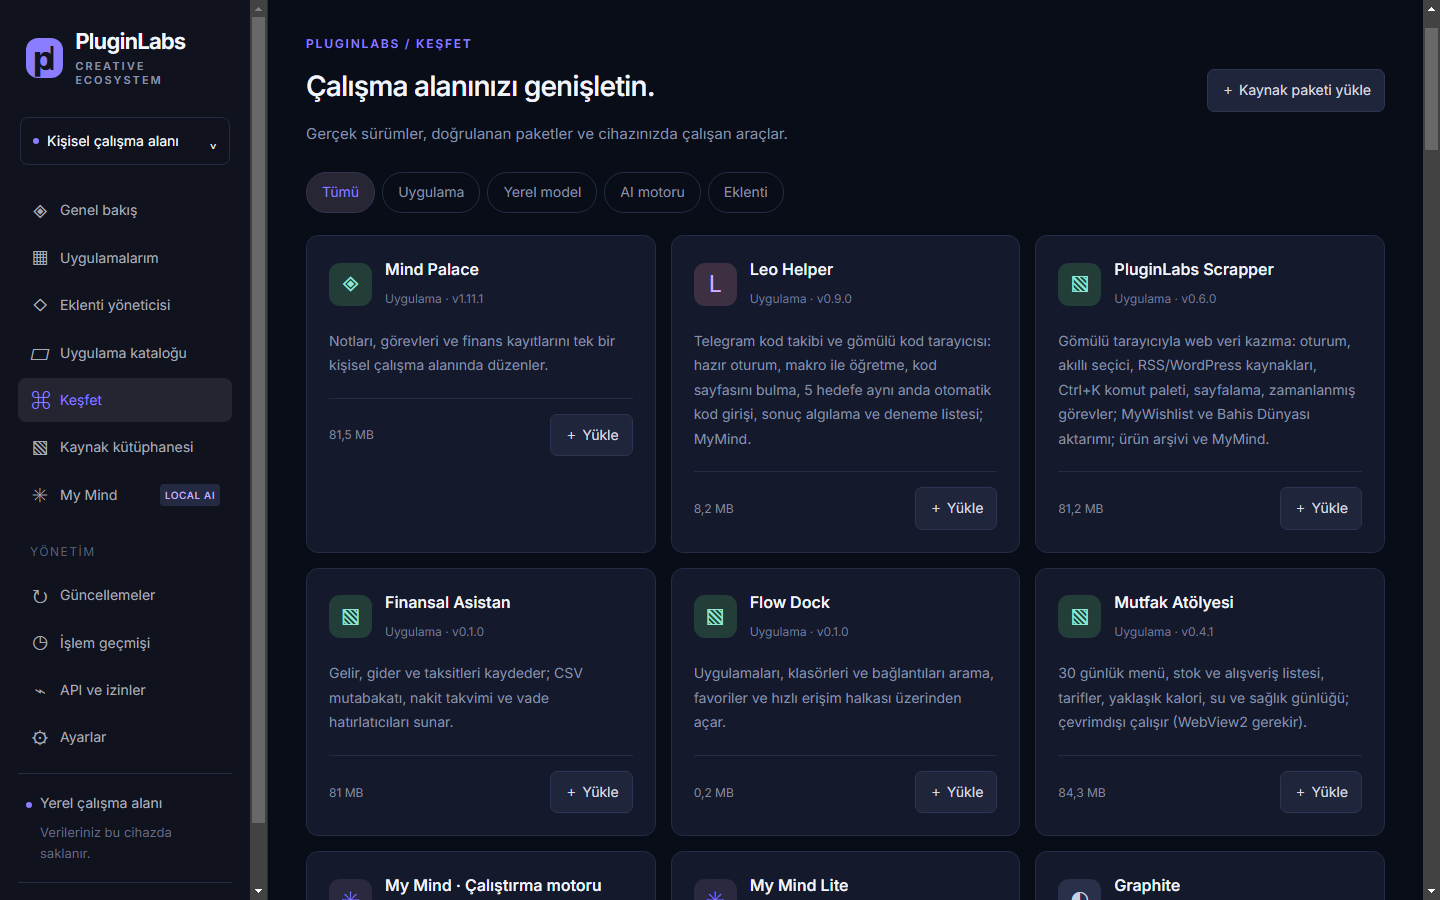
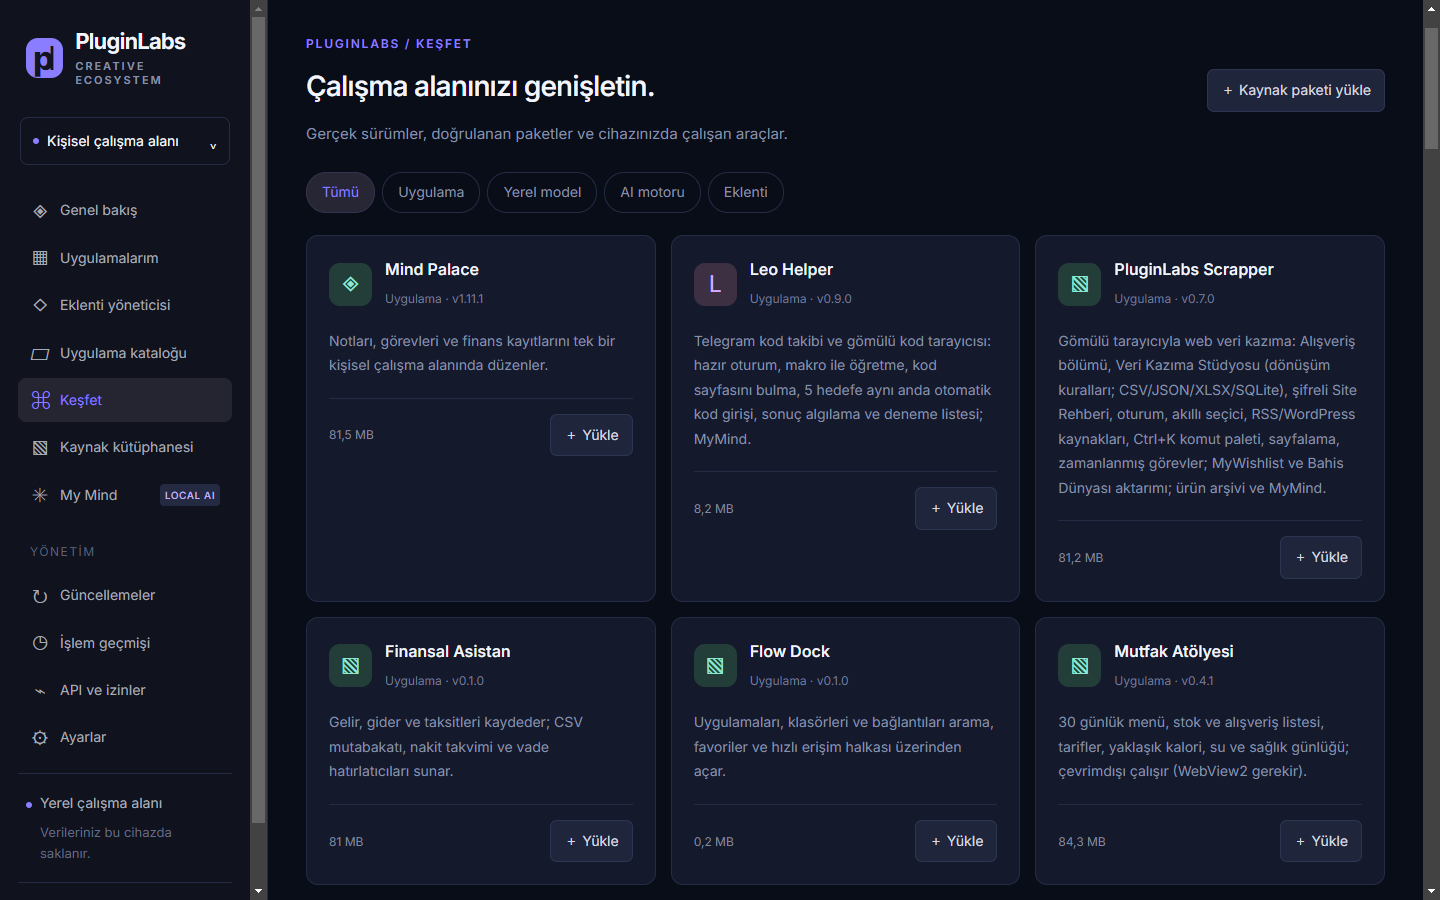
[hub] 0.4.7: PluginLabs Scrapper 0.7.0 kataloğa
- Katalog: Scrapper 0.7.0 (Alışveriş bölümü, Veri Kazıma Stüdyosu, Site Rehberi);
  pluginlabs-dagitim pluginlabs-scrapper-v0.7.0 yansısıyla SHA-256 + boyut doğrulandı.
- README Keşfet ekran görüntüsü 0.4.7 ile yenilendi (Windows 11, Electron).
- AKTIF-ISLER, UYGULAMALAR, RELEASE-NOTES güncellendi.

diff --git a/docs/UYGULAMALAR.md b/docs/UYGULAMALAR.md
@@ -11,7 +11,7 @@ Windows sürümü GitHub release olarak yayımlanmış uygulamalar (paketler imz
 | Flow Dock (PL-001) | v0.1.0 (tek exe) | https://github.com/timdesigners-pixel/flow-dock/releases/tag/v0.1.0 |
 | Leo Helper (PL-002) | v0.9.0 (Tauri; kurulum + taşınabilir exe) | https://github.com/timdesigners-pixel/leo-helper/releases/tag/v0.9.0 |
 | Mind Palace (PL-003) | **v1.11.0** (kurulum + taşınabilir .exe) | https://github.com/timdesigners-pixel/mind-palace/releases/tag/v1.11.0 |
-| The Ultimate Scrapper (PL-004) | v0.6.0 (PluginLabs Scrapper) | https://github.com/timdesigners-pixel/the-ultimate-scrapper/releases/tag/v0.6.0 |
+| The Ultimate Scrapper (PL-004) | v0.7.0 (PluginLabs Scrapper) | https://github.com/timdesigners-pixel/the-ultimate-scrapper/releases/tag/v0.7.0 |
 | Finansal Asistan (PL-005) | v0.1.0 (Windows, kapalı pilot) | https://github.com/timdesigners-pixel/finansal-asistan/releases/tag/v0.1.0 |
 | Note Master (PL-006) | v0.1.0 (Windows kurulum/taşınabilir + Chrome zip) | https://github.com/timdesigners-pixel/note-master/releases/tag/v0.1.0 |
 | Musebook (PL-007) | v0.1.0 (Windows kurulum/taşınabilir + Chrome zip) | https://github.com/timdesigners-pixel/musebook/releases/tag/v0.1.0 |
@@ -41,7 +41,7 @@ Mind Palace'ın ajan kipi (araç çağırma, görsel girdi, bilgisayar kullanım
 | PL-001 | Flow Dock | Çalışan Windows uygulaması · **v0.1.0** (tek exe, imzasız) | https://github.com/timdesigners-pixel/flow-dock/releases/tag/v0.1.0 |
 | PL-002 | Leo Helper | Çalışan Windows uygulaması · **v0.9.0** (Tauri/Rust; imzasız önizleme) | https://github.com/timdesigners-pixel/leo-helper/releases/tag/v0.9.0 |
 | PL-003 | Mind Palace Plugin Hub | Çalışan Windows uygulaması · **v1.11.0** | https://github.com/timdesigners-pixel/mind-palace/releases/tag/v1.11.0 |
-| PL-004 | The Ultimate Scrapper | Chrome eklentisi + Windows uygulaması · **v0.6.0** (PluginLabs Scrapper; imzasız önizleme) | https://github.com/timdesigners-pixel/the-ultimate-scrapper/releases/tag/v0.6.0 |
+| PL-004 | The Ultimate Scrapper | Chrome eklentisi + Windows uygulaması · **v0.7.0** (PluginLabs Scrapper; imzasız önizleme) | https://github.com/timdesigners-pixel/the-ultimate-scrapper/releases/tag/v0.7.0 |
 | PL-005 | Finansal Asistan | Windows uygulaması · **v0.1.0** (kapalı pilot, imzasız) | https://github.com/timdesigners-pixel/finansal-asistan/releases/tag/v0.1.0 |
 | PL-006 | Note Master | Chrome eklentisi + Windows uygulaması · **v0.1.0** (imzasız önizleme) | https://github.com/timdesigners-pixel/note-master/releases/tag/v0.1.0 |
 | PL-007 | Musebook | Chrome eklentisi + Windows uygulaması · **v0.1.0** (imzasız önizleme) | https://github.com/timdesigners-pixel/musebook/releases/tag/v0.1.0 |

diff --git a/docs/ortak-calisma/AKTIF-ISLER.md b/docs/ortak-calisma/AKTIF-ISLER.md
@@ -26,3 +26,4 @@ Codex ve Claude Code işe başlamadan önce buraya satır ekler, bitince durumu 
 | PL-004 | Claude Code | `claude/PL-004-tasarim-sistemi-gecisi` (the-ultimate-scrapper) | 31.10.2026 | 0.6.0: PluginLabs Tasarım Sistemi uyumu, Ctrl+K komut paleti, sade tarayıcı arayüzü | Tamamlandı — the-ultimate-scrapper#14 ve #15 birleşti; v0.6.0 yayımlandı; Hub 0.4.4 ile kataloğa girdi |
 | PL-002 | Claude Code | `claude/PL-002-oto-kod-tarayici`, `claude/PL-002-makro-hedefler` (timdesigners-pixel/leo-helper) | 31.10.2026 | Tauri 2 / Rust geçişi: PluginLabs tasarım sistemi, gömülü kod tarayıcısı, Telegram (hesap + bot), makro ile öğretme, 5 hedefe paralel kod girişi, sonuç algılama, MyMind. Python 0.8.0 eşitlenene kadar korunur; Codex dalı `codex/pl002-pluginlabs-tracker` eski tabanlı yedek, dokunulmadı | 01.11.2026: Tamamlandı — leo-helper#6 ve #7 birleşti; v0.9.0 yayımlandı (yerel derleme); `pluginlabs-dagitim` leo-helper-v0.9.0; Hub 0.4.5 (PluginLabs#37) kataloğa aldı. Sırada: Notion “Yeni görevler” |
 | PL-053 | Claude Code | `claude/PL-053-surum-0.4.1` (mutfak-atolyesi) + `claude/hub-mutfak-0.4.1` | 01.11.2026 | Boş kalan v0.4.0 yerine 0.4.1 yayını; dağıtım deposu `mutfak-atolyesi-v0.4.1`; Hub 0.4.6 kataloğu (zip uygulama `launch` alanı) | mutfak-atolyesi#7 birleşti; v0.4.1 yayımlandı (Release iş akışı, 5/5 iş); dağıtım yansısı yapıldı · Hub PR açık |
+| PL-004 | Claude Code | `claude/PL-004-alisveris-studyo-site-rehberi` (the-ultimate-scrapper) + `claude/hub-scrapper-0.7.0` | 01.11.2026 | 0.7.0: Alışveriş bölümü, Veri Kazıma Stüdyosu, Site Rehberi (Notion şartnamesi; captcha/bot koruması ve robots.txt atlatma bilinçli olarak yok) | the-ultimate-scrapper#16 birleşti; v0.7.0 yayımlandı; `pluginlabs-dagitim` pluginlabs-scrapper-v0.7.0 · Hub 0.4.7 PR açık |

diff --git a/RELEASE-NOTES.md b/RELEASE-NOTES.md
@@ -1,3 +1,12 @@
+PluginLabs Hub 0.4.7 — PluginLabs Scrapper 0.7.0 kataloğa eklendi.
+
+- Katalog: PluginLabs Scrapper 0.7.0 (ürün ekranları tek Alışveriş bölümünde; ham veriyi değiştirmeyen dönüşüm katmanıyla Veri Kazıma Stüdyosu, otomatik düzenleme, CSV/JSON/XLSX/SQLite çıktısı; parolaları şifreli tutan Site Rehberi). SHA-256 ve boyut dağıtım deposundaki dosyayla doğrulandı.
+- Hub'ın kendi davranışı değişmedi.
+
+İmzasız önizleme sürümüdür; SmartScreen uyarı verebilir. Electron ve paketleme zincirindeki güvenlik bulguları (issue #3) açıktır.
+
+---
+
 PluginLabs Hub 0.4.6 — Mutfak Atölyesi 0.4.1 kataloğa eklendi.
 
 - Katalog: Mutfak Atölyesi 0.4.1 (Windows x64 taşınabilir zip; PluginLabs Tasarım Sistemi arayüzü, Ctrl+K komut paleti). SHA-256 ve boyut dağıtım deposundaki dosyayla doğrulandı; gerçek indirme + açma + başlatma yolu uçtan uca denendi.

diff --git a/README.md b/README.md
@@ -16,7 +16,7 @@ Uygulamalara, kaynak kütüphanesine ve yerel My Mind yönetimine tek ekrandan e
 
 50 uygulama; ne işe yaradığını anlatan açıklamalar, platform bilgileri ve önizleme paketi yükleme seçenekleriyle listelenir.
 
-![Keşfet: Hub üzerinden kurulabilen uygulamalar (0.4.6)](docs/screenshots/app-catalog.png)
+![Keşfet: Hub üzerinden kurulabilen uygulamalar (0.4.7)](docs/screenshots/app-catalog.png)
 
 ### Eklenti yöneticisi
 
